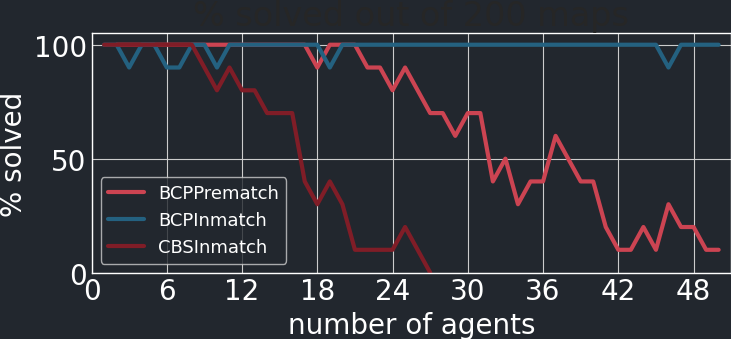
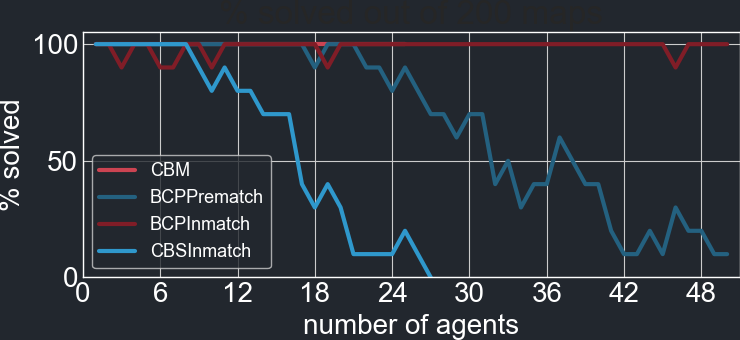
New test

Changed region(s): [[0.0301, 0.0885, 1.0, 1.0], [0.0, 0.2655, 0.0301, 0.649]]

diff --git a/python/benchmarks/comparison_25percent_3teams.py b/python/benchmarks/comparison_25percent_3teams.py
@@ -4,7 +4,7 @@ from typing import Optional, Callable
 from tqdm import tqdm
 
 from python.algorithm import MapfAlgorithm
-from python.benchmarks.comparison import BCPPrematch, BCPInmatch, CBSInmatch, CBSPrematch #, EPEAStar, CBM, AStarODID,
+from python.benchmarks.comparison import BCPPrematch, BCPInmatch, CBSInmatch, CBSPrematch, CBM #, EPEAStar, CBM, AStarODID,
 #from python.benchmarks.comparison.icts import ICTS
 from python.benchmarks.util import read_from_file, output_data
 from python.benchmarks.graph_times import graph_results
@@ -20,7 +20,7 @@ from python.solvers.configurable_mstar_solver import ConfigurableMStar
 import os
 
 this_dir = pathlib.Path(__file__).parent.absolute()
-name = "comparison_25percent_3teams_maps_preview_3"
+name = "comparison_25percent_3teams_maps_preview_2"
 # processes = 10
 
 
@@ -31,7 +31,7 @@ def generate_maps():
     except FileExistsError:
         pass
 
-    num = 2
+    num = 50
 
     dirnames = [n.name for n in path.iterdir() if n.is_dir()]
 
@@ -61,9 +61,9 @@ def run(solver: Callable[[], MapfAlgorithm], bm_name: str, parse_maps : bool = T
     
     fname = batchdir / f"results_{bm_name}.txt"
 
-    # if fname.exists():
-    #     print(f"data exists for {bm_name}")
-    #     return fname, bm_name
+    if fname.exists():
+        print(f"data exists for {bm_name}")
+        return fname, bm_name
 
     # num agents : solutions
     results: dict[int, list[Optional[float]]] = {}
@@ -79,10 +79,10 @@ def run(solver: Callable[[], MapfAlgorithm], bm_name: str, parse_maps : bool = T
         num_agents = len(problems[0][1].goals)
         
         partname = pathlib.Path(str(fname) + f".{num_agents}agents")
-        # if partname.exists():
-        #     print(f"found data for part {num_agents}")
-        #     results[num_agents] = read_from_file(partname, num_agents)
-        #     continue
+        if partname.exists():
+            print(f"found data for part {num_agents}")
+            results[num_agents] = read_from_file(partname, num_agents)
+            continue
         if num_agents <= 2 or sum(1 for i in results[num_agents - 1] if i is not None) != 0:
             #sols_inmatch = run_with_timeout(p, solver(), problems, parse_maps, 1 * 1) # test with low timeout
             sols_inmatch = run_with_timeout(solver(), problems, parse_maps, 60) # test with low timeout
@@ -133,10 +133,10 @@ def main():
     #     "EPEA*"
     # ))
 
-    #files.append(run(
-    #    lambda: CBM(),
-    #    "CBM"
-    #))
+    files.append(run(
+       lambda: CBM(),
+       "CBM"
+    ))
 
     # files.append(run(
     #     lambda: AStarODID(),
@@ -153,20 +153,20 @@ def main():
         "BCPPrematch"
     ))
 
-    # files.append(run(
-    #     lambda: BCPInmatch(),
-    #     "BCPInmatch"
-    # ))
-    #
     files.append(run(
-        lambda: CBSPrematch(),
-        "CBSPrematch"
+        lambda: BCPInmatch(),
+        "BCPInmatch"
     ))
     #
     # files.append(run(
-    #     lambda: CBSInmatch(),
-    #     "CBSInmatch"
+    #     lambda: CBSPrematch(),
+    #     "CBSPrematch"
     # ))
+    #
+    files.append(run(
+        lambda: CBSInmatch(),
+        "CBSInmatch"
+    ))
 
     graph_results(
         *files,

diff --git a/python/benchmarks/comparison_25percent_1teams.py b/python/benchmarks/comparison_25percent_1teams.py
@@ -5,7 +5,7 @@ from typing import Optional, Callable
 from tqdm import tqdm
 
 from python.algorithm import MapfAlgorithm
-from python.benchmarks.comparison import BCPInmatch, BCPPrematch, CBSInmatch  # , EPEAStar, CBM, AStarODID,
+from python.benchmarks.comparison import BCPInmatch, BCPPrematch, CBSInmatch, CBM  # , EPEAStar, CBM, AStarODID,
 from python.benchmarks.graph_times import graph_results
 from python.benchmarks.map import MapGenerator
 from python.benchmarks.parse_map import MapParser
@@ -126,10 +126,10 @@ def main():
     #     "EPEA*"
     # ))
 
-    # files.append(run(
-    #     lambda: CBM(),
-    #     "CBM"
-    # ))
+    files.append(run(
+        lambda: CBM(),
+        "CBM"
+    ))
 
     # files.append(run(
     #     lambda: AStarODID(),

diff --git a/python/benchmarks/comparison_25percent_var_teams.py b/python/benchmarks/comparison_25percent_var_teams.py
@@ -15,7 +15,7 @@ from python.benchmarks.run_with_timeout import run_with_timeout
 from python.benchmarks.util import read_from_file, output_data
 
 this_dir = pathlib.Path(__file__).parent.absolute()
-name = "comparison_25percent_var_teams_maps_preview"
+name = "comparison_25percent_var_teams_maps_preview_2"
 processes = 1
 
 
@@ -40,11 +40,11 @@ def generate_maps():
     except FileExistsError:
         pass
 
-    num = 12
+    num = 24
 
     dirnames = [n.name for n in path.iterdir() if n.is_dir()]
 
-    for i in tqdm([1, 2, 3, 4, 6, 12]):
+    for i in tqdm([1, 2, 3, 4, 6, 12, 24]):
         if any(f"T{i}" in dirname for dirname in dirnames):
             tqdm.write(f"maps for {i} agents already generated")
             continue

diff --git a/python/benchmarks/comparison/cbm.py b/python/benchmarks/comparison/cbm.py
@@ -7,7 +7,6 @@ from mapfmclient import Problem, Solution
 from python.algorithm import MapfAlgorithm
 
 this_dir = pathlib.Path(__file__).parent.absolute()
-print(sys.path)
 sys.path.insert(0, str(this_dir / "src"))
 from src.env import set_env, EnvVariables
 from src.main import solve
